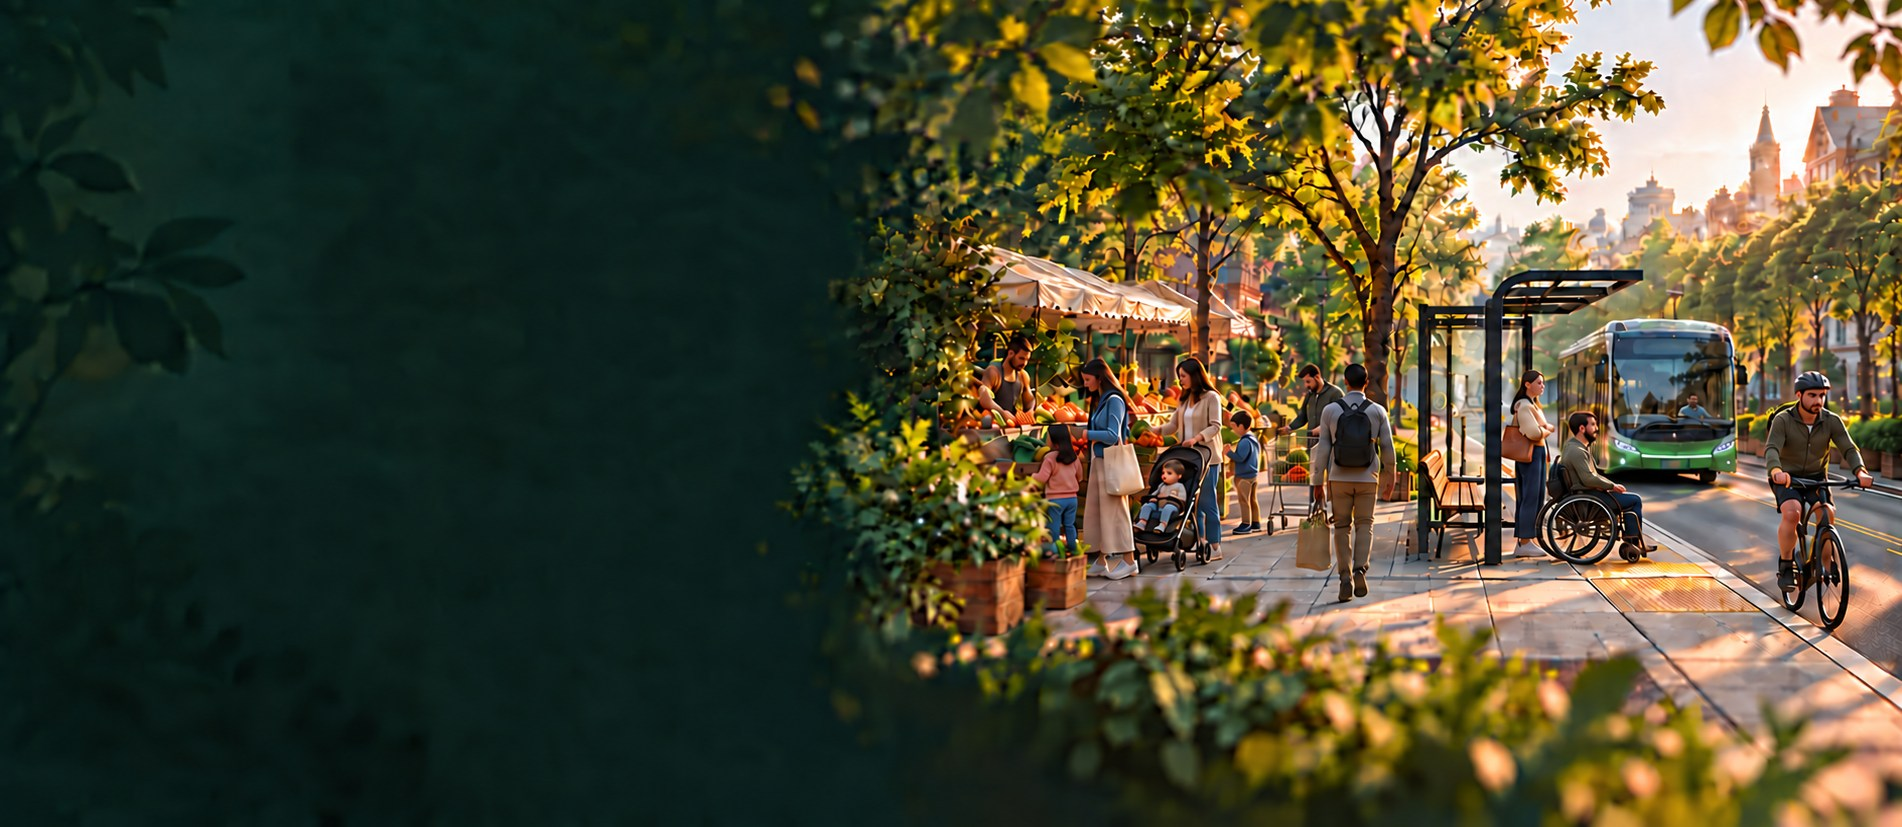
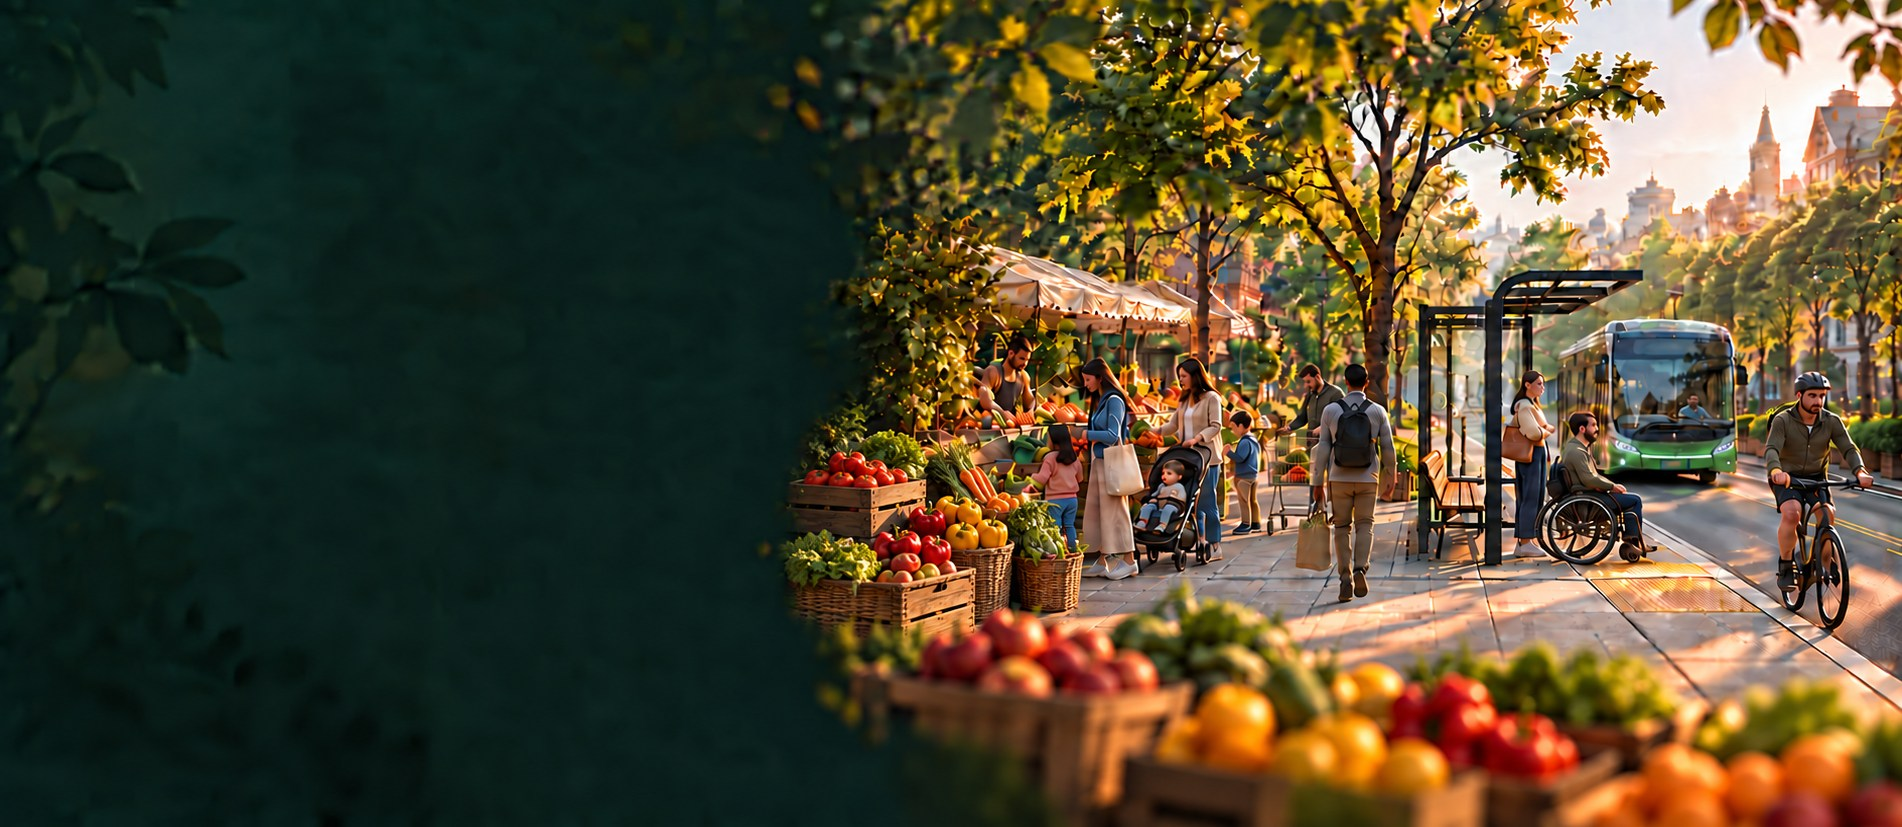
Replace hero foreground greenery with fresh produce

diff --git a/index.html b/index.html
@@ -6,7 +6,7 @@
     <meta name="description" content="Transportation and Fresh Food Access: A Case Study of Santa Ana, CA, and Syracuse, NY." />
     <meta name="theme-color" content="#10261f" />
     <title>TRANSPORTATION AND FRESH FOOD ACCESS — A Case Study of Santa Ana, CA, and Syracuse, NY</title>
-    <link rel="stylesheet" href="styles.css?v=20260917-04" />
+    <link rel="stylesheet" href="styles.css?v=20260917-05" />
     <script src="script.js?v=20260917-01" defer></script>
   </head>
   <body>
